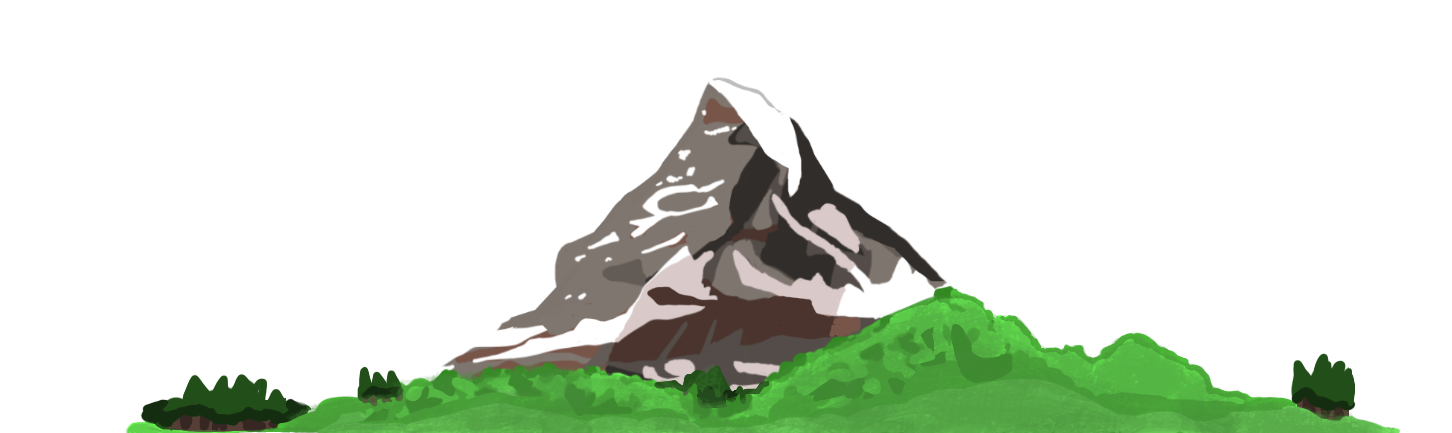
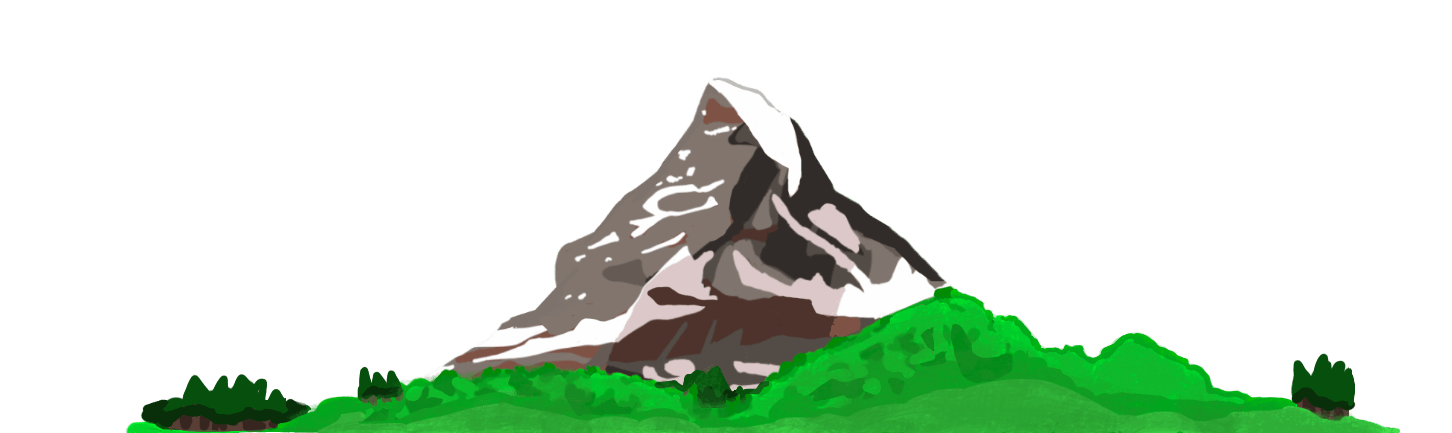
Compressed larger images

Changed region(s): [[0.062, 0.6605, 0.9917, 1.0]]

diff --git a/index.html b/index.html
@@ -116,7 +116,7 @@
           <div class="row education-row">
 
             <div class="infosys col-lg-6">
-              <img class="infosys-image" src="images/Infosys_logo.svg.png" alt="Infosys logo">
+              <img class="infosys-image" src="images/Infosys_logo.png" alt="Infosys logo">
             </div>
 
             <div class="infosys col-lg-g">
@@ -134,7 +134,7 @@
 
           <div class="row education-row">
             <div class="revature col-lg-6">
-              <img class="revature-image" src="images/rev-logo.png" alt="Revature logo">
+              <img class="revature-image" src="images/rev-logo.jpg" alt="Revature logo">
             </div>
 
             <div>

diff --git a/Style.css b/Style.css
@@ -60,8 +60,8 @@ p {
 .bottom-container {
   background-color: #ffcea3;
   position: relative;
-  padding-top: 25px;
-  padding-bottom: 10px;
+  padding-top: 20px;
+  padding-bottom: 20px;
   color: #001d6e;
   margin-top: 0;
   margin-bottom: 0;
